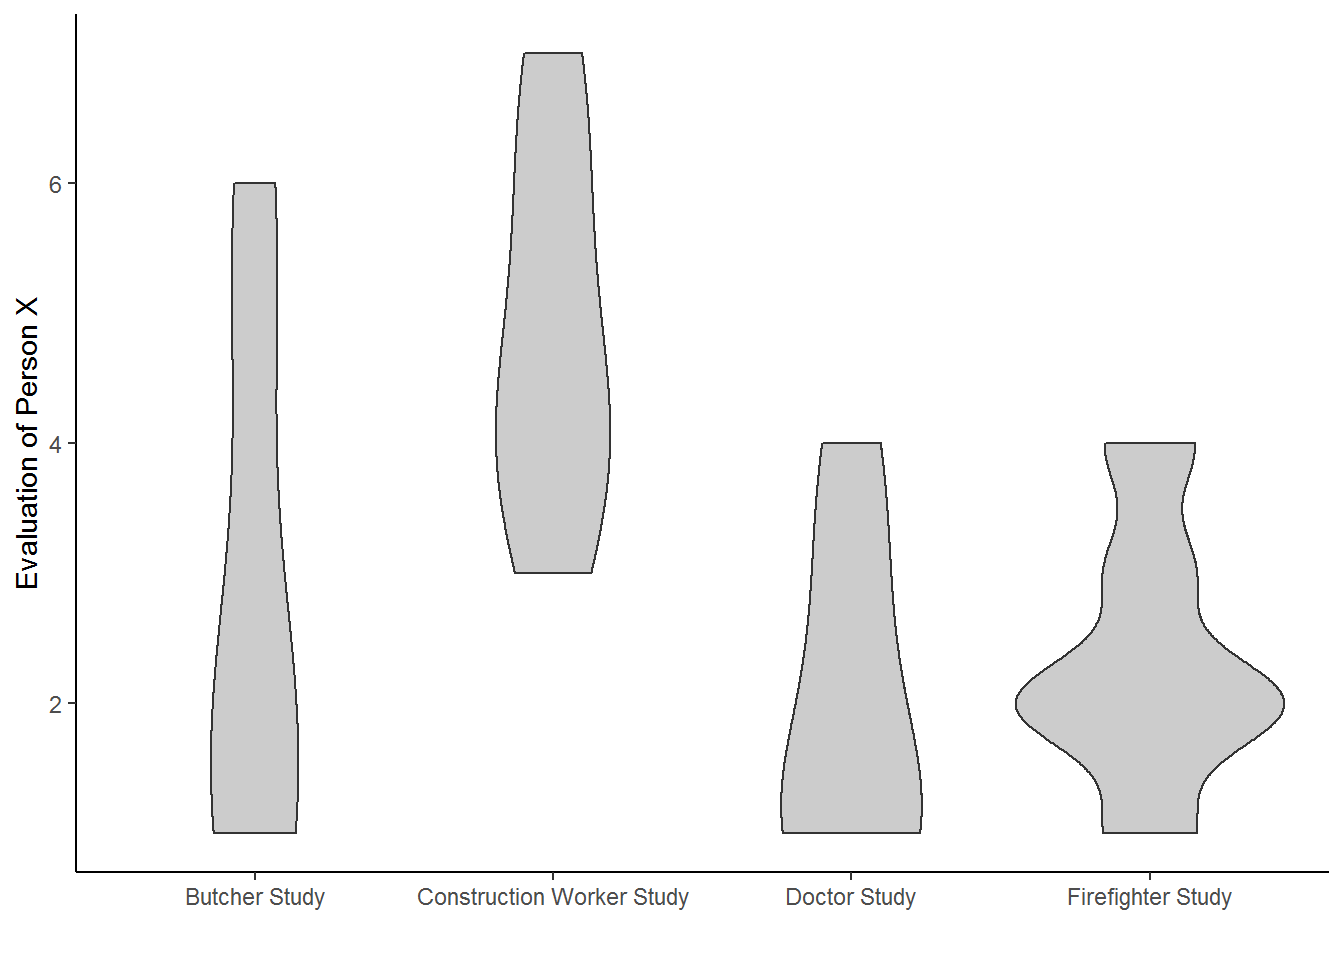
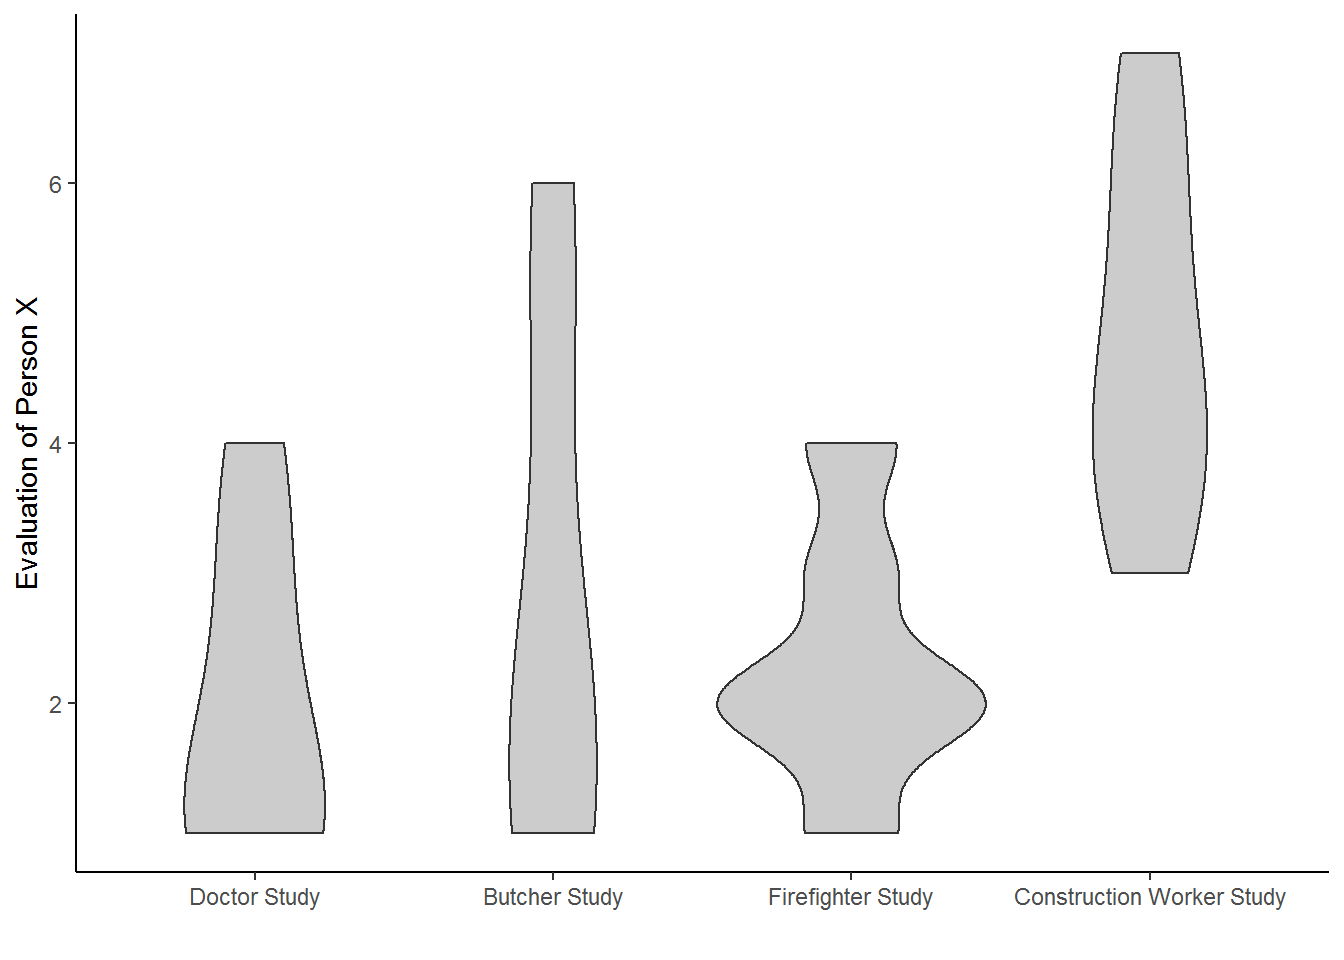
new

diff --git a/docs/DataVis.html b/docs/DataVis.html
@@ -330,15 +330,25 @@ $(document).ready(function () {
 <div id="figure-1a" class="section level1">
 <h1>Figure 1a</h1>
 <pre class="r"><code>  library(ggplot2)
-  group &lt;- c(doc_study = rep(&quot;Doctor Study&quot;, 6), buh_study = rep(&quot;Butcher Study&quot;, 6), 
-             fire_study = rep(&quot;Firefighter Study&quot;, 6), 
-             cons_study = rep(&quot;Construction Worker Study&quot;, 6))
-  eval_data &lt;- c(1,1,1,2,3,4,5,6,1,1,2,2,2,2,3,4,1,2,3,4,4,5,6,7)
-  plot_df2 &lt;- data.frame(group,eval_data)
+  group &lt;- c(rep(&quot;Doctor Study&quot;, 10), rep(&quot;Butcher Study&quot;, 10), rep(&quot;Firefighter Study&quot;, 10), 
+             rep(&quot;Construction Worker Study&quot;, 10))
+  group_order &lt;- factor(group, levels = c(&quot;Doctor Study&quot;, &quot;Butcher Study&quot;, &quot;Firefighter Study&quot;,                                                    &quot;Construction Worker Study&quot;))
+  gender &lt;- c(rep(&quot;Man More Likely&quot;,2), rep(&quot;Equally Likely&quot;,8), 
+              rep(&quot;Man More Likely&quot;,3), rep(&quot;Equally Likely&quot;,5), rep(&quot;Woman More Likely&quot;,2),
+              rep(&quot;Man More Likely&quot;,4), rep(&quot;Equally Likely&quot;,5), rep(&quot;Woman More Likely&quot;,1),
+              rep(&quot;Man More Likely&quot;,3), rep(&quot;Equally Likely&quot;,5), rep(&quot;Woman More Likely&quot;,2))
+  gender_order &lt;- factor(gender, levels = c(&quot;Woman More Likely&quot;, &quot;Equally Likely&quot;, &quot;Man More Likely&quot;))
+
+  plot_df2 &lt;- data.frame(group_order,gender_order)
   
-  ggplot(plot_df2, aes(factor(group), fill = eval_data)) +
+  ggplot(plot_df2, aes(group_order, fill = gender_order)) +
     geom_bar(position = &quot;fill&quot;) +
-    theme_classic()</code></pre>
+    theme_classic() +
+    xlab(&quot;&quot;) +
+    ylab(&quot;Precentage of Participants&quot;) +
+    scale_fill_discrete(name = &quot;&quot;) +
+    theme(legend.position = &quot;top&quot;)</code></pre>
+<p><img src="DataVis_files/figure-html/unnamed-chunk-2-1.png" width="672" /></p>
 </div>
 <div id="figure-1b" class="section level1">
 <h1>Figure 1b</h1>
@@ -346,10 +356,11 @@ $(document).ready(function () {
   group &lt;- c(doc_study = rep(&quot;Doctor Study&quot;, 6), buh_study = rep(&quot;Butcher Study&quot;, 6), 
              fire_study = rep(&quot;Firefighter Study&quot;, 6), 
              cons_study = rep(&quot;Construction Worker Study&quot;, 6))
+  group_order &lt;- factor(group, levels = c(&quot;Doctor Study&quot;, &quot;Butcher Study&quot;, &quot;Firefighter Study&quot;,                                            &quot;Construction Worker Study&quot;))
   eval_data &lt;- c(1,1,1,2,3,4,5,6,1,1,2,2,2,2,3,4,1,2,3,4,4,5,6,7)
-  plot_df2 &lt;- data.frame(group,eval_data)
+  plot_df3 &lt;- data.frame(group_order,eval_data)
   
-  ggplot(plot_df2, aes(factor(group), eval_data)) +
+  ggplot(plot_df3, aes(group_order, eval_data)) +
     geom_violin(fill=&quot;gray80&quot;) +
     theme_classic() +
     ylab(&quot;Evaluation of Person X&quot;) +
